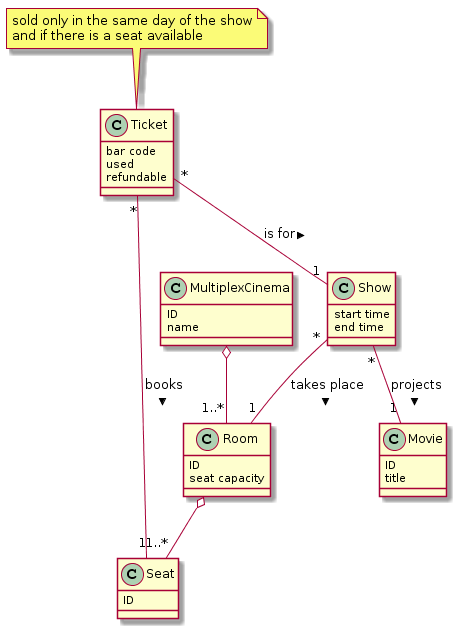
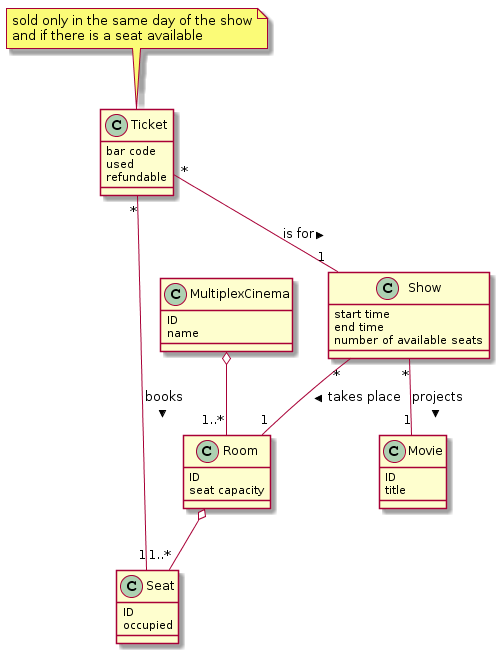
add scenarios ex4

Changed region(s): [[0.0, 0.0, 1.0, 0.9984], [0.4298, 0.3025, 0.4912, 0.3328]]

diff --git a/ex4_movie/requirements.md b/ex4_movie/requirements.md
@@ -4,19 +4,19 @@ A multiplex cinema is composed of several rooms, each room may show a different 
 
 Each seat in a room has an id. A management system for a multiplex cinema has to be built because there are several multiplex cinemas across Italy.
 
-The management system will be used by **clerks** to **sell tickets** at a counter in the cinema. The sale of a ticket can also be done via Internet, the **customers** buy it connecting to a web site. A ticket is valid for a specific seat, in a specific room, for a specific show (movie and start time).
+The management system will be used by clerks to sell tickets at a counter in the cinema. The sale of a ticket can also be done via Internet, the customers buy it connecting to a web site. A ticket is valid for a specific seat, in a specific room, for a specific show (movie and start time).
 
 A ticket is unique and has a bar code. The ticket must be printed to guarantee admission. A ticket is sold only in the same day of the show, and only if there is a seat available. The user can choose the seat. A ticket is refundable, if not used.
 
-Another function of the system is **admitting (or rejecting) people** to the rooms. Admission is regulated by a gate, which opens after showing a valid ticket to a bar code reader. There is a first row of gates controlling access to all rooms, then a gate controlling access to each room.
+Another function of the system is admitting (or rejecting) people to the rooms. Admission is regulated by a gate, which opens after showing a valid ticket to a bar code reader. There is a first row of gates controlling access to all rooms, then a gate controlling access to each room.
 
-Other functions supported by the system are **refund of a ticket**; various **monitor** functions for the clerks (how many persons are in a room, how many seats available for a room/movie session, average occupation of a room per day/ per session); **definition of the schedule** for the day (what movie for what room at what time); **printout of the schedule** of the day.
+Other functions supported by the system are refund of a ticket various monitor functions for the clerks (how many persons are in a room, how many seats available for a room/movie session, average occupation of a room per day/ per session); definition of the schedule for the day (what movie for what room at what time); printout of the schedule of the day.
 
 - Define the context diagram (including relevant interfaces)
 - Define the class diagram
 - Define the use case diagram
-- Define one scenario describing a successful sale for a ticket for a movie. 
-- Define one scenario describing a successful admission to a room. 
+- Define one scenario describing a successful sale for a ticket for a movie.
+- Define one scenario describing a successful admission to a room.
 - Define the system design diagram
 
 
@@ -62,11 +62,13 @@ Room : seat capacity
 Movie : ID
 Movie : title
 Seat : ID
+Seat : occupied
 Ticket : bar code
 Ticket : used
 Ticket : refundable
 Show : start time
 Show : end time
+Show : number of available seats
 
 MultiplexCinema o-- "1..*" Room
 Room o-- "1..*" Seat
@@ -114,3 +116,31 @@ st .> hp : include
 note right of st : Clerk and customer uses\nthe same procedure (web site)
 ```
 ![use case diagram](pictures/use_case_diagram.png)
+
+
+## Scenarios
+### Successful sale for a ticket for a movie
+
+Precondition: there is at least one seat available for the show and it is the same day of the show
+Post condition: the selected seat is occupied
+
+| Scenario ID: SC1 | Corresponds to UC: Sell ticket |
+|:----------------:| ------------------------------ |
+| Step # | Description |
+| 1 | User selects show |
+| 2 | User selects seat |
+| 3 | User pays |
+| 4 | System sets the seat as occupied, decreases the total number of seats available |
+
+### Successful admission to a room
+
+Precondition: customer has a valid ticket and has already passed the first row of gates
+Post condition: the ticket is used
+
+| Scenario ID: SC2 | Corresponds to UC: Admit to room |
+|:----------------:| -------------------------------- |
+| Step # | Description |
+| 1 | Customer shows ticket to the barcode reader |
+| 2 | System checks if the ticket is valid for show |
+| 3 | Room gate opens and customer enters |
+| 4 | System sets the ticket as used |
